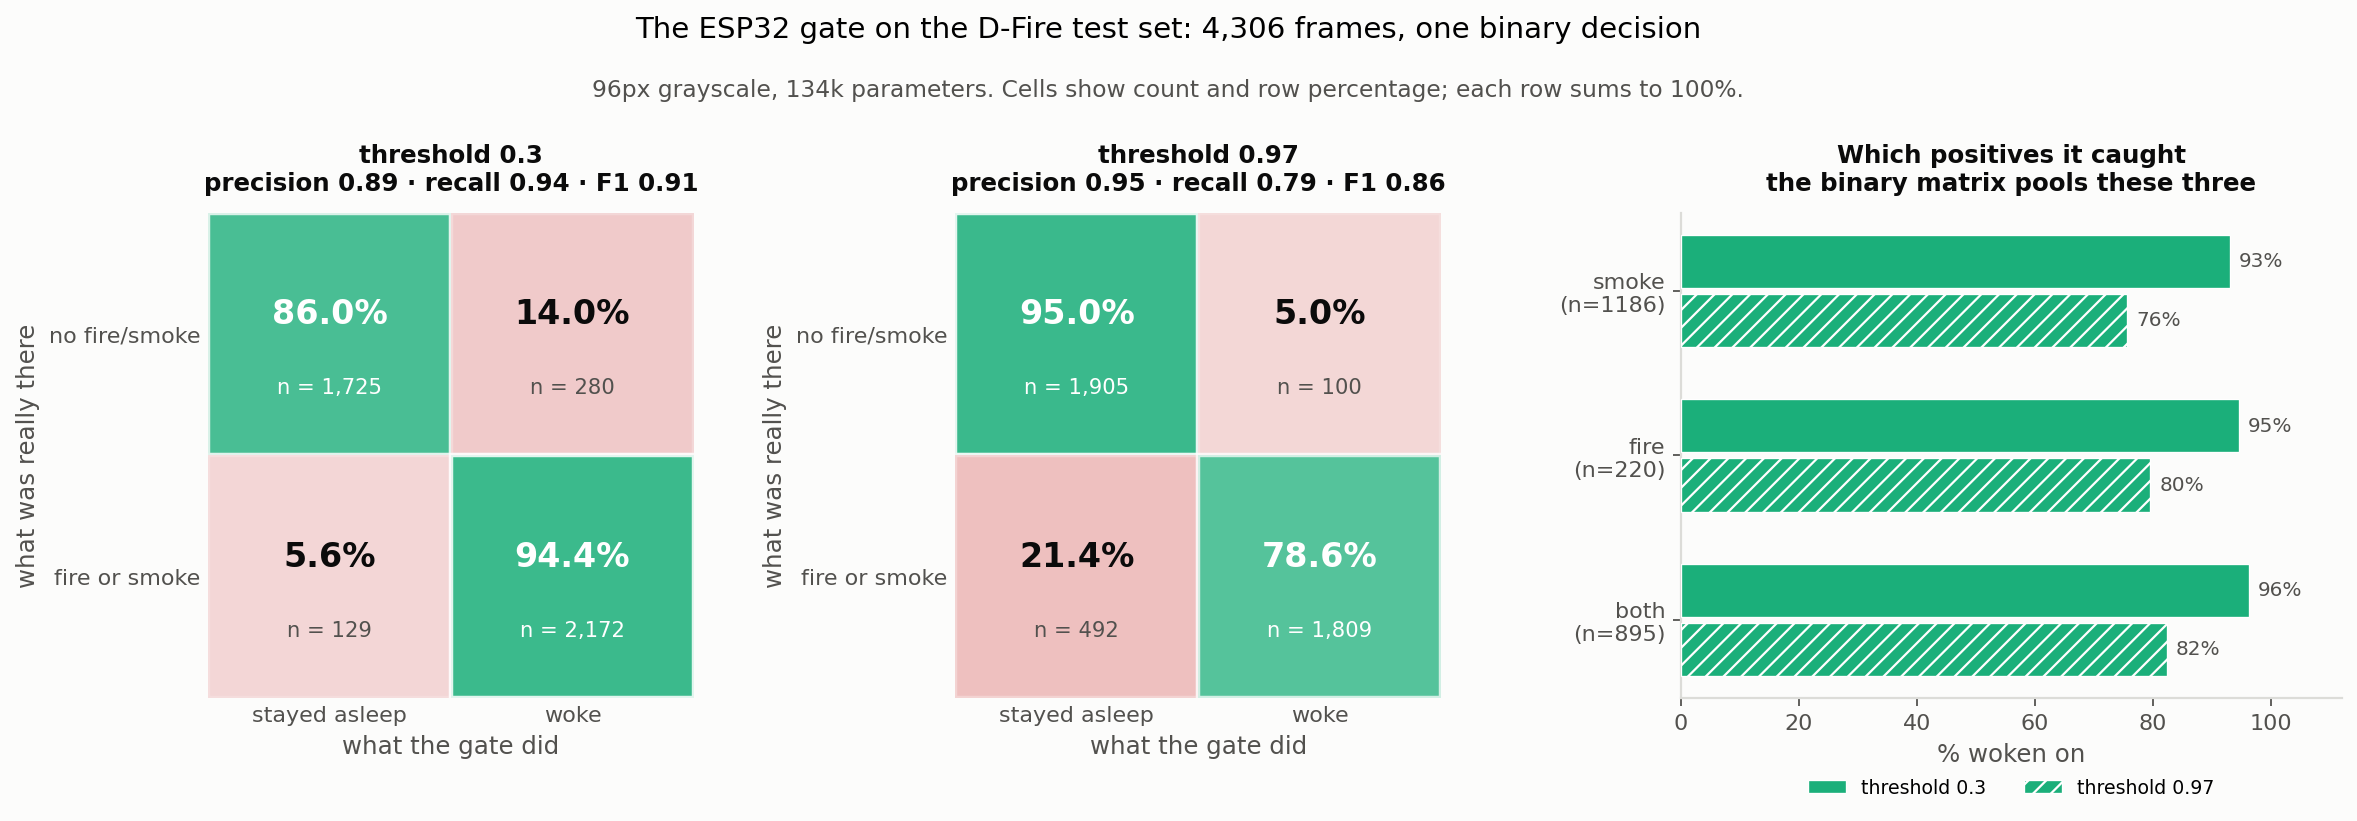
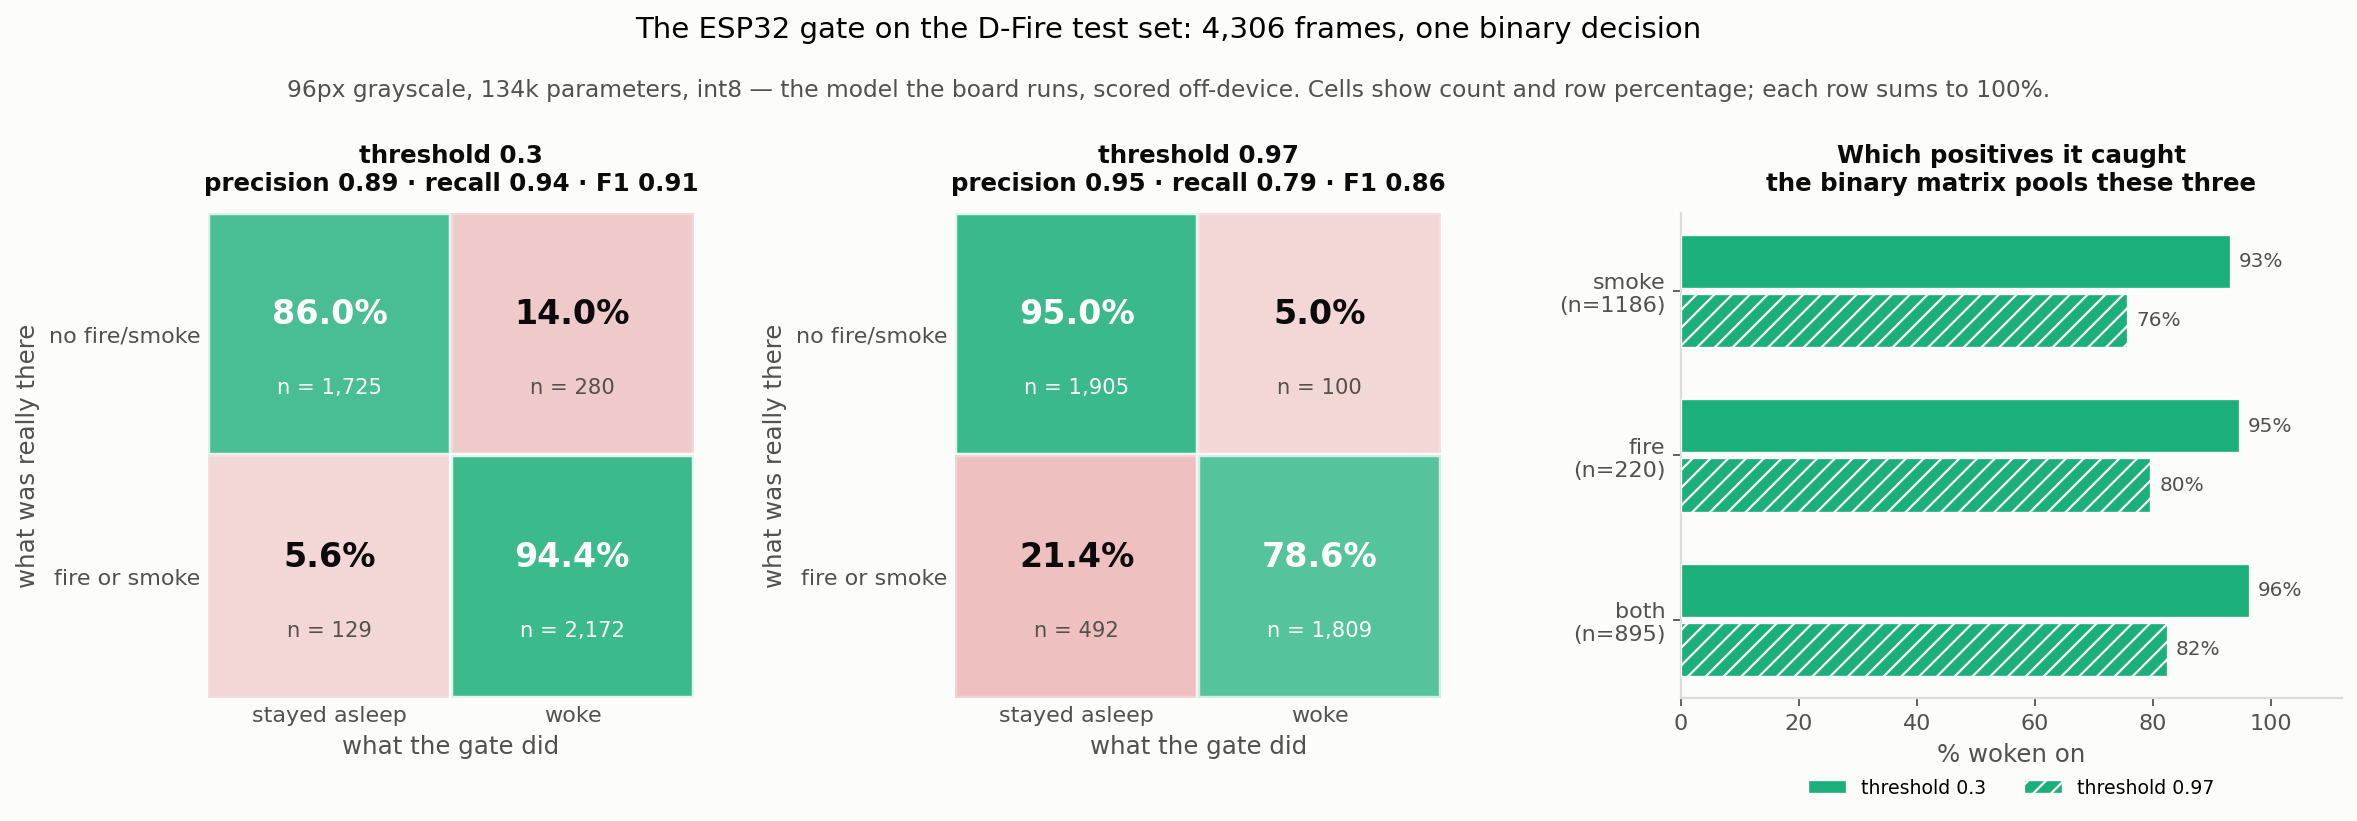
XP15: say where the confusion matrix was computed
'The ESP32 gate' reads as if the chip produced these 4,306 rows. It produced 8 of
them, matching to 0.004 with no decision changed; the subtitle now says the matrix
is the int8 model the board runs, scored off-device.

Changed region(s): [[0.1239, 0.0914, 0.8672, 0.1218]]

diff --git a/analysis/make_figures.py b/analysis/make_figures.py
@@ -1862,8 +1862,12 @@ def fig_xp15_confusion(records) -> Path | None:
                              gridspec_kw={"width_ratios": [1] * len(thrs) + [1.25]})
     fig.suptitle("The ESP32 gate on the D-Fire test set: 4,306 frames, one binary decision",
                  y=1.06)
-    style.subtitle(fig, f"{d['input_res']}px grayscale, {d['params']/1000:.0f}k parameters. "
-                        f"Cells show count and row percentage; each row sums to 100%.", y=0.98)
+    # Says where these were computed, because "the ESP32 gate" reads as if the chip
+    # produced them. It produced 8 of them, to within 0.004 and with no decision
+    # changed; the rest would take 25 minutes on the board to reconfirm.
+    style.subtitle(fig, f"{d['input_res']}px grayscale, {d['params']/1000:.0f}k parameters, "
+                        f"int8 \u2014 the model the board runs, scored off-device. Cells show "
+                        f"count and row percentage; each row sums to 100%.", y=0.98)
 
     labels = ["no fire/smoke", "fire or smoke"]
     for ax, t in zip(axes, thrs):
